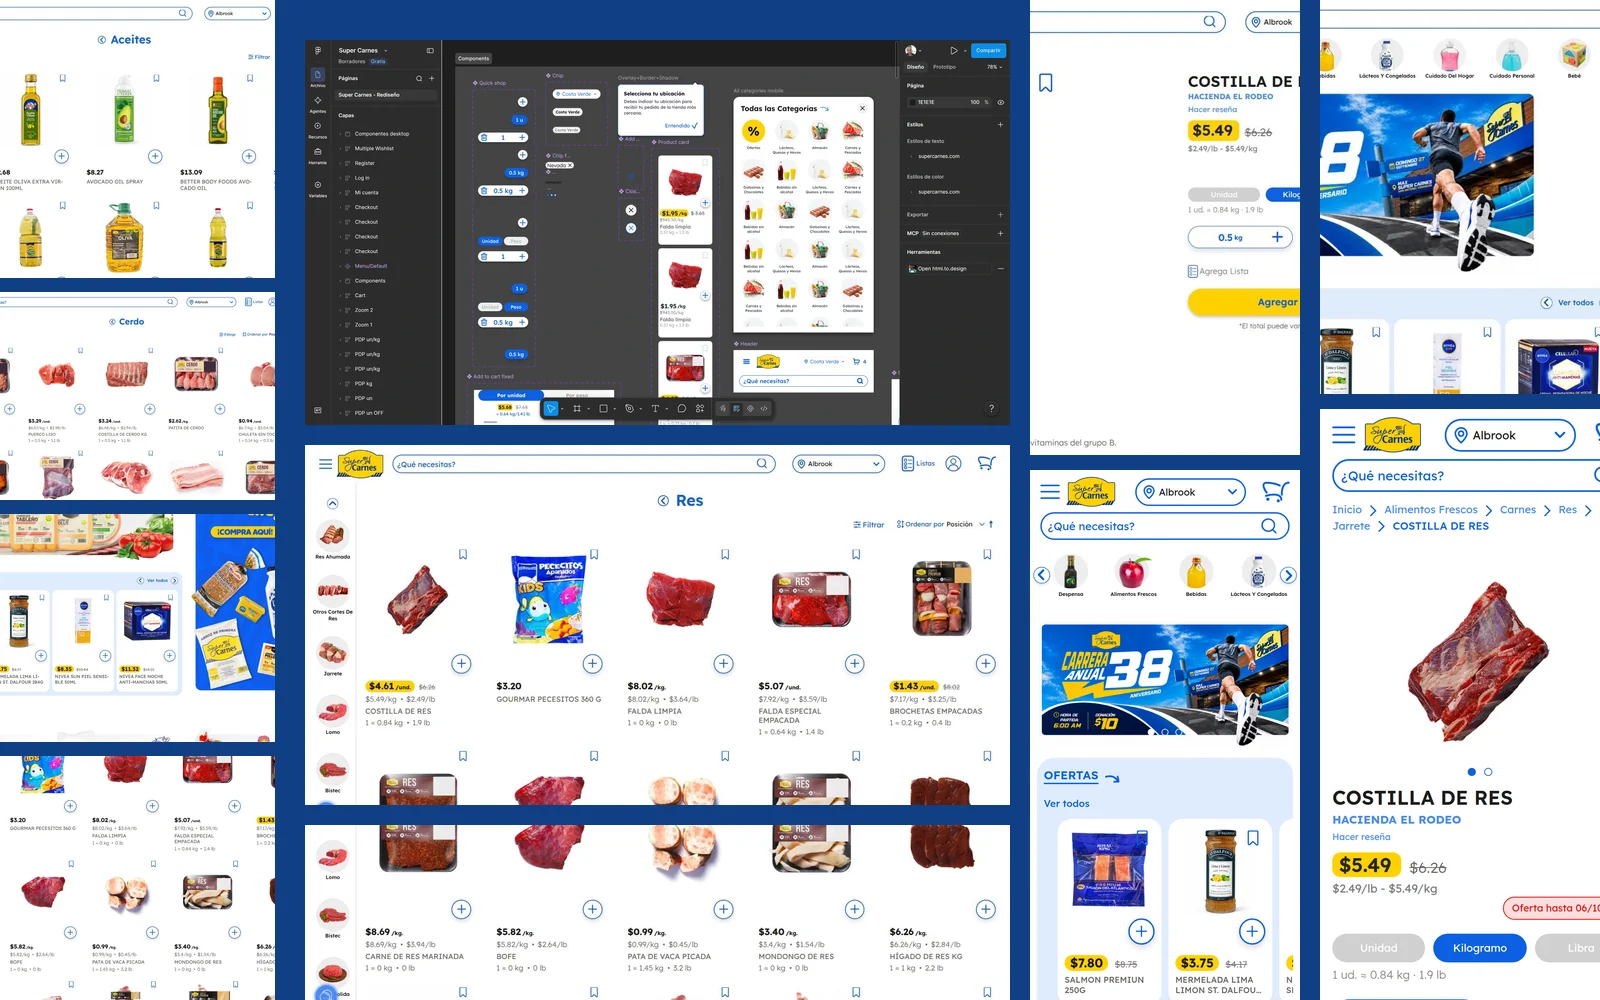
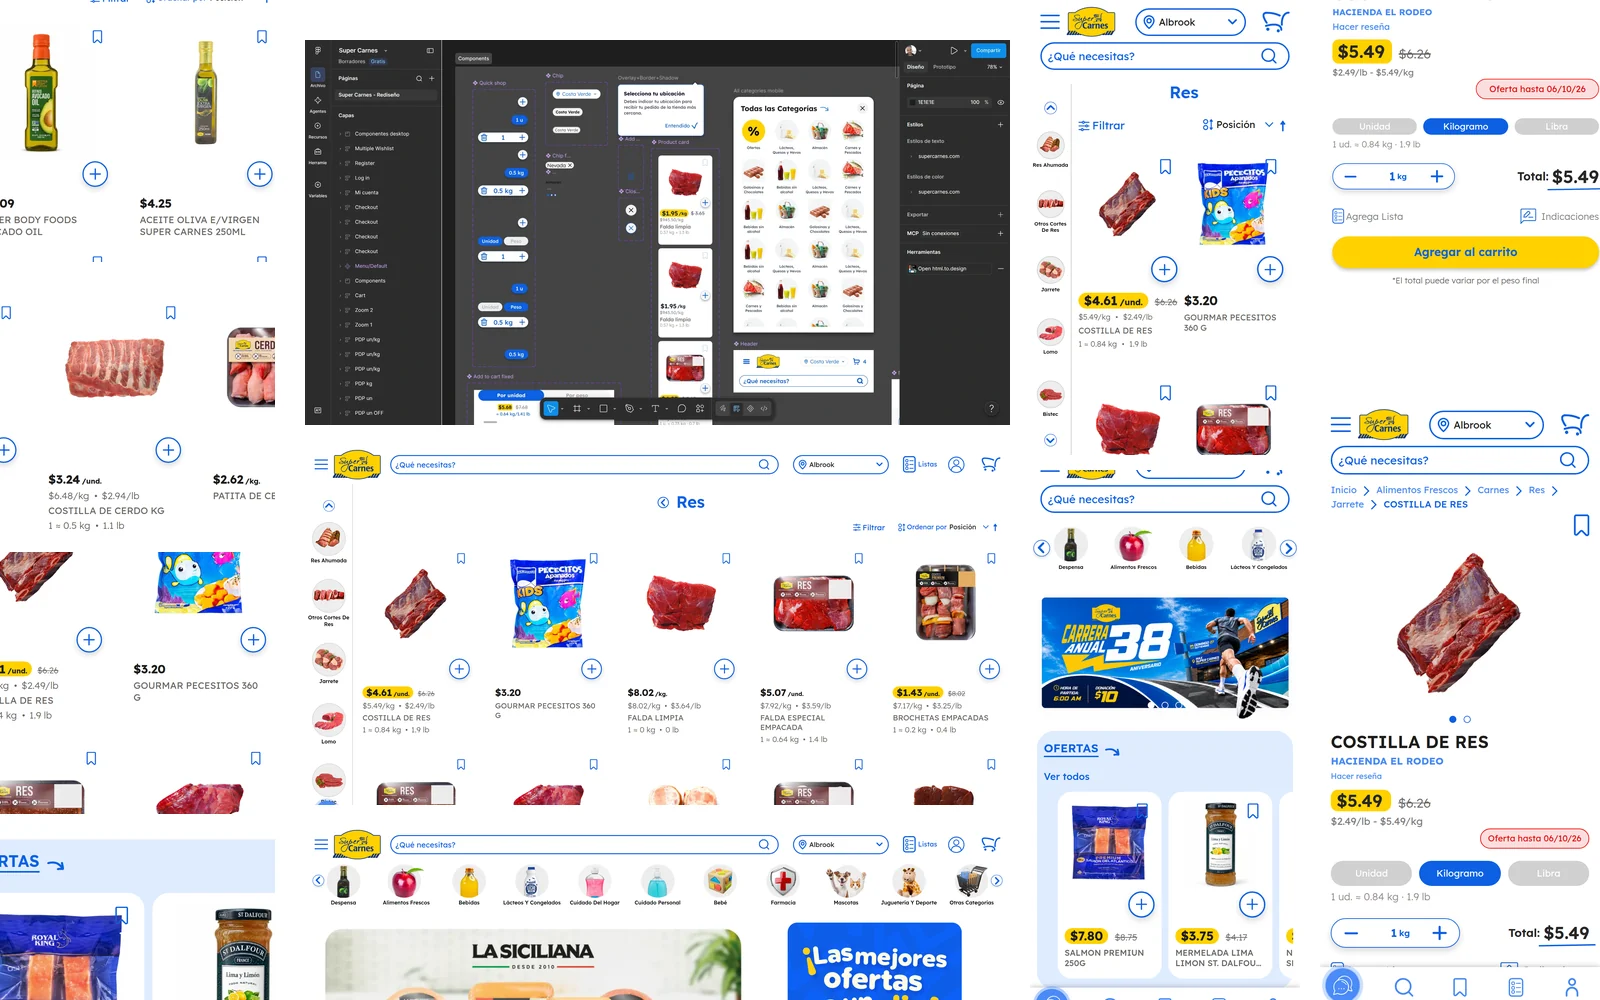
Super Carnes: mosaico en blanco y cada recorte con un motivo
El fondo azul se va: queda blanco como el de New Balance.

Ninguna pieza vuelve a partir una misma pantalla en dos, que era lo que hacía
aparecer una línea en el medio del listado. Cada recorte encuadra ahora algo
puntual: las tarjetas completas de aceites, cerdo y res con su precio doble,
el carrusel de ofertas, la barra de categorías del home, el listado y el home
en el celular, y el panel de compra de la ficha con el selector, la cantidad
y el total, que ya no queda cortado por el borde.

Las capturas de escritorio se rehicieron a 2x por CDP, así los recortes de
detalle no se ven blandos.

Claude-Session: https://claude.ai/code/session_01M2dDEhZcV7tUGrJanzxNgs

diff --git a/diseno/index.html b/diseno/index.html
@@ -231,7 +231,7 @@
           <figure>
             <img src="../img/sc-mosaico.webp"
                  srcset="../img/sc-mosaico-800.webp 800w, ../img/sc-mosaico.webp 1600w" sizes="(max-width: 900px) 92vw, 1200px" width="1600" height="1000" loading="lazy"
-                 alt="Mosaico del proyecto Super Carnes. En el centro, el archivo de Figma con la librería de componentes y, debajo, el listado en producción: cada tarjeta de producto muestra el precio por unidad y por kilo, la equivalencia entre las dos y un botón para agregar. Alrededor, los listados de otras categorías, el home, la ficha con el selector de unidad, kilogramo y libra, y el sitio en el celular.">
+                 alt="Mosaico del proyecto Super Carnes. En el centro, el archivo de Figma con la librería de componentes y, debajo, el listado en producción: cada tarjeta de producto muestra el precio por unidad y por kilo, la equivalencia entre las dos y un botón para agregar. A la izquierda, las mismas tarjetas en aceites, cerdo y res, y el carrusel de ofertas. A la derecha, el listado y el home en el celular, y el panel de compra de la ficha con el selector de unidad, kilogramo y libra y el total recalculado.">
             <figcaption>El archivo de Figma y el sitio en producción: la tarjeta de producto quedó con los dos precios, la equivalencia y el botón para agregar.</figcaption>
           </figure>
           <figure>

diff --git a/en/diseno/index.html b/en/diseno/index.html
@@ -231,7 +231,7 @@
           <figure>
             <img src="../../img/sc-mosaico.webp"
                  srcset="../../img/sc-mosaico-800.webp 800w, ../../img/sc-mosaico.webp 1600w" sizes="(max-width: 900px) 92vw, 1200px" width="1600" height="1000" loading="lazy"
-                 alt="Mosaic of the Super Carnes project. At the centre, the Figma file with the component library and, below it, the live listing: every product card shows the price per unit and per kilo, the equivalence between them and a button to add. Around them, listings from other categories, the home page, the product page with its unit, kilogram and pound selector, and the site on a phone.">
+                 alt="Mosaic of the Super Carnes project. At the centre, the Figma file with the component library and, below it, the live listing: every product card shows the price per unit and per kilo, the equivalence between them and a button to add. On the left, the same cards in oils, pork and beef, and the offers carousel. On the right, the listing and the home page on a phone, and the product page's buy panel with its unit, kilogram and pound selector and the recalculated total.">
             <figcaption>The Figma file and the live site: the product card ended up with both prices, the equivalence and the add button.</figcaption>
           </figure>
           <figure>
